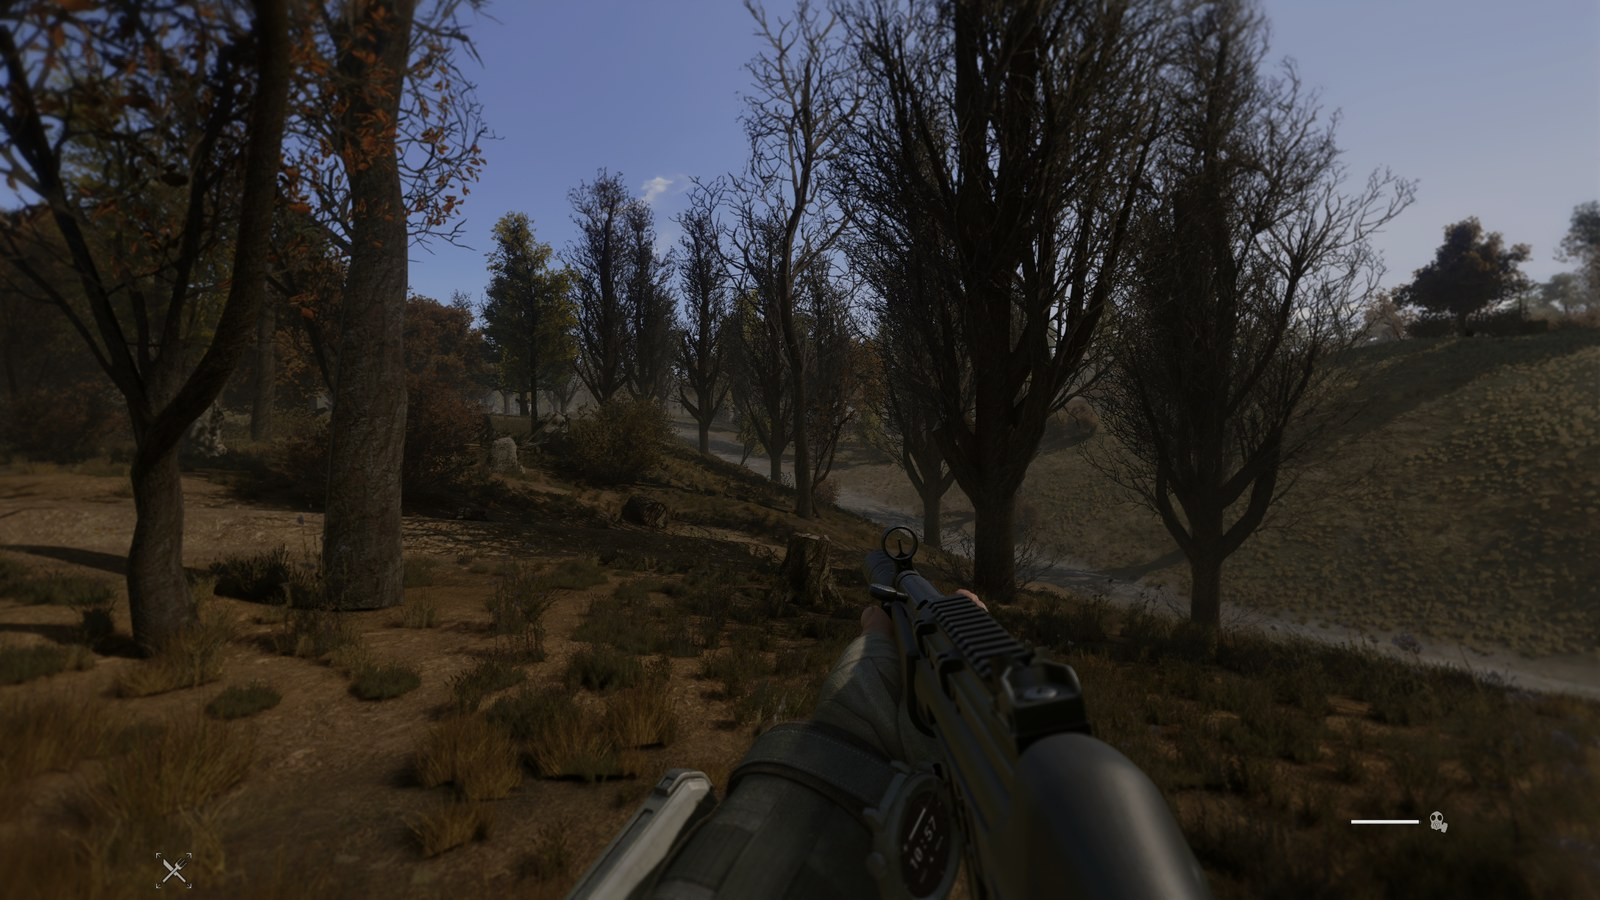
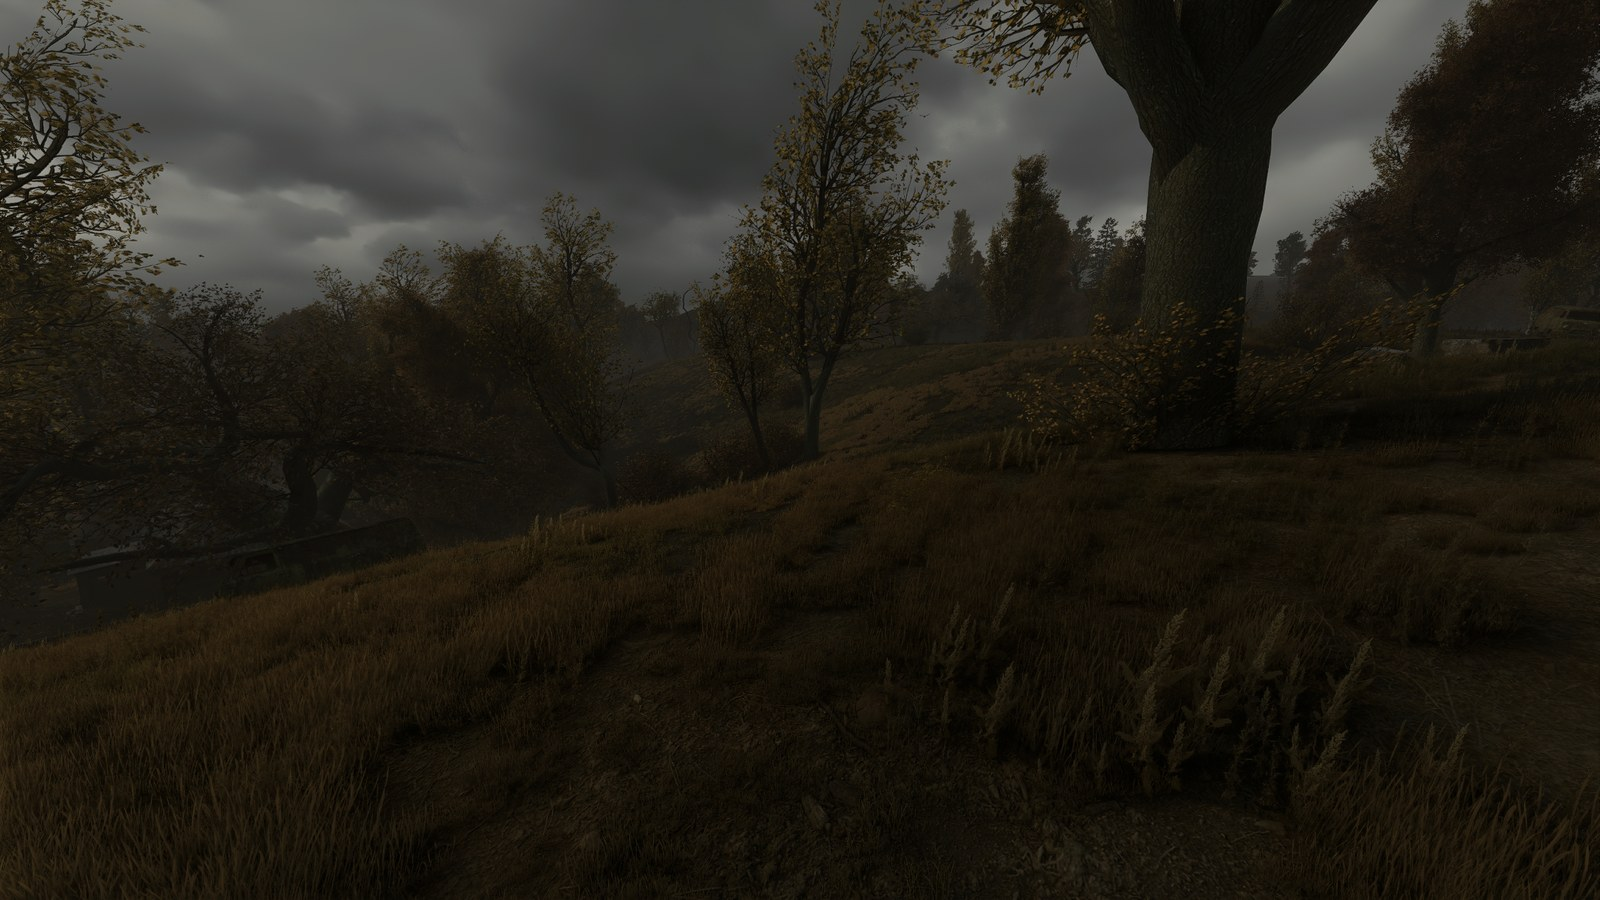
Let the MCM season pin drive the staged layers too
MCM offers "Season: automatic, or pin one" and the README said so without a
caveat, but season.py only ever read the calendar. Pinning Deep winter gave you
winter light and fog over autumn ground textures and an autumn soundscape, and
status reported the calendar answer as though it were the reason.

The pin now decides what is staged. Precedence is --season, then the pin, then
the calendar: an explicit flag beats a stored setting. A value in the store that
is not a season falls back to the calendar rather than being trusted. status
names the pin and prints what the calendar would have said.

The two in-world screenshots are retaken on the current stack, since the caption
named a texture pack that is no longer what stages for either season.

diff --git a/_tools/season.py b/_tools/season.py
@@ -263,7 +263,7 @@ def read_prefs():
     """The MCM choices, from MCM's store. Global switches are seasons_zone/main/<id>; a
     per-season mod hold is seasons_zone/<season>/mod_<slug>. Returns {"stage_textures",
     "stage_sound", "off": {season: set(slug)}}. No file yet means defaults."""
-    out = {"stage_textures": True, "stage_sound": True,
+    out = {"stage_textures": True, "stage_sound": True, "mode": "auto",
            "off": {s: set() for s in SEASONS}}
     p = _axr_options()
     if not p:
@@ -279,7 +279,9 @@ def read_prefs():
         k, v = [x.strip() for x in line.split("=", 1)]
         page, _, o = k[len("seasons_zone/"):].partition("/")
         off = v.lower() in ("false", "off", "0", "no")
-        if page == "main" and o == "stage_textures":
+        if page == "main" and o == "mode":
+            out["mode"] = v.strip().lower()
+        elif page == "main" and o == "stage_textures":
             out["stage_textures"] = not off
         elif page == "main" and o == "stage_sound":
             out["stage_sound"] = not off
@@ -1055,10 +1057,14 @@ def main():
     shadow_check(force=(a.cmd == "status"))
 
     today = datetime.date.today()
-    want = a.season or season_for(today, a.mapping)
-    tmp = os.path.join(ROOT, "_staging", "season-%d" % os.getpid())    # per process
-
     prefs = read_prefs()
+
+    # MCM offers "automatic, or pin one" and the in-engine layers honour it, so the
+    # staged layers follow it too - otherwise pinning a season gives you its light
+    # over another season's ground. An explicit --season still wins over the pin.
+    pinned = prefs["mode"] if prefs["mode"] in SEASONS else None
+    want = a.season or pinned or season_for(today, a.mapping)
+    tmp = os.path.join(ROOT, "_staging", "season-%d" % os.getpid())    # per process
     if a.no_textures:
         prefs["stage_textures"] = False
     stage_tex = prefs["stage_textures"]
@@ -1067,7 +1073,11 @@ def main():
     print("  date            %s" % today.isoformat())
     print("  mapping         %s" % ("phenological (Polesia)" if a.mapping == "pheno"
                                     else "meteorological (UA convention)"))
-    print("  season for date %s%s" % (want, "   (forced)" if a.season else ""))
+    why = ("   (forced with --season)" if a.season else
+           "   (pinned in MCM)" if pinned else "")
+    print("  season          %s%s" % (want, why))
+    if pinned and not a.season:
+        print("  calendar says   %s" % season_for(today, a.mapping))
     print("  texture layer   %s" % ("on" if stage_tex else
                                     "OFF - textures left alone, in-engine seasons still run"))
     print()

diff --git a/docs/INTERFACE.md b/docs/INTERFACE.md
@@ -20,7 +20,9 @@ graded towards. It follows the calendar and ignores the pin below it.
 Below the dial:
 
 - **Enable seasonal atmosphere** — the master switch.
-- **Season** — automatic, or pin one.
+- **Season** — automatic, or pin one. A pin drives every layer: the in-engine ones
+  change within five seconds, and the textures and soundscape follow at the next
+  launch, since both are staged before the game starts.
 - **Transition length (days)** — the blend window centered on each boundary. 0 switches on
   the date.
 - **Intensity** — 0 is GAMMA's stock look, 1 the full season.
@@ -77,9 +79,11 @@ Autumn: low amber sun, thinned canopy, the grade pulled towards yellow-brown.
 
 ![Deep winter at the rookie village](images/zone-deep-winter.jpg)
 
-Deep winter: snow cover, flat contrast, cold light and ice fog.
+Deep winter: snow cover, flat contrast, cold light, and the bare stems of the dead set
+showing through. The PDA line carries no date because the season is pinned rather than
+read from the calendar.
 
 Both shots combine this mod's in-engine grading with third-party texture layers it stages
-for the season (PanceRide's autumn set above, Project I.N.V.E.R.N.O's winter set below).
-The color, fog, wind and wetness are the mod; the ground and foliage textures are their
-authors'.
+for the season - C Consciousness' autumn set above, and its dead set under Project
+I.N.V.E.R.N.O's snow below. The color, fog, wind and wetness are the mod; the ground and
+foliage textures are their authors'.

diff --git a/README.md b/README.md
@@ -98,7 +98,7 @@ If you never use the texture layer, launch however you like.
 each season.
 
 - **Main** — the year dial and today's date; the master switch; season (automatic, or
-  pin one); transition length (0 for a hard switch on the boundary date, 14 by default);
+  pin one — a pin also decides what is staged at the next launch); transition length (0 for a hard switch on the boundary date, 14 by default);
   intensity (0 is GAMMA's stock look, 1 the full season); one switch per layer: color,
   foliage, fog, wind, and wetness; the two launch-time switches, for textures and
   ambient sound; the PDA message.

diff --git a/docs/HOW-IT-WORKS.md b/docs/HOW-IT-WORKS.md
@@ -87,6 +87,10 @@ Terrain and grass textures are loaded from MO2's virtual file system when a leve
 and kept for the session. There is no way to reload them at runtime. So the texture layer
 is decided before the game starts: `play.bat` runs `season.py apply`, then starts MO2.
 
+That is also why a season pinned in MCM reaches the textures and the soundscape only
+at the next launch: `season.py` reads the pin from MCM's store before the game exists.
+`--season` on the command line overrides it.
+
 ## The MO2 rule
 
 MO2 gives a shared file to the highest enabled mod that ships it. That is what makes
